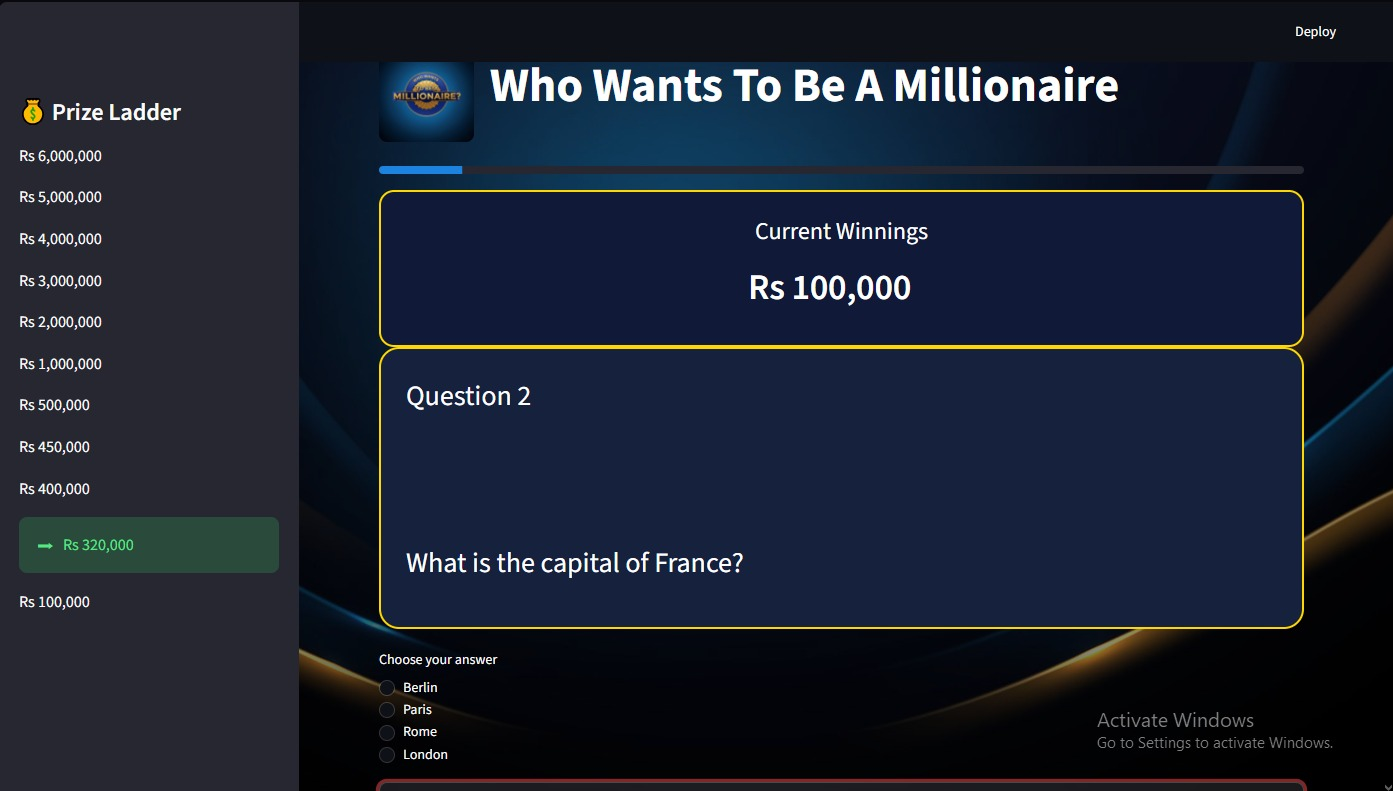
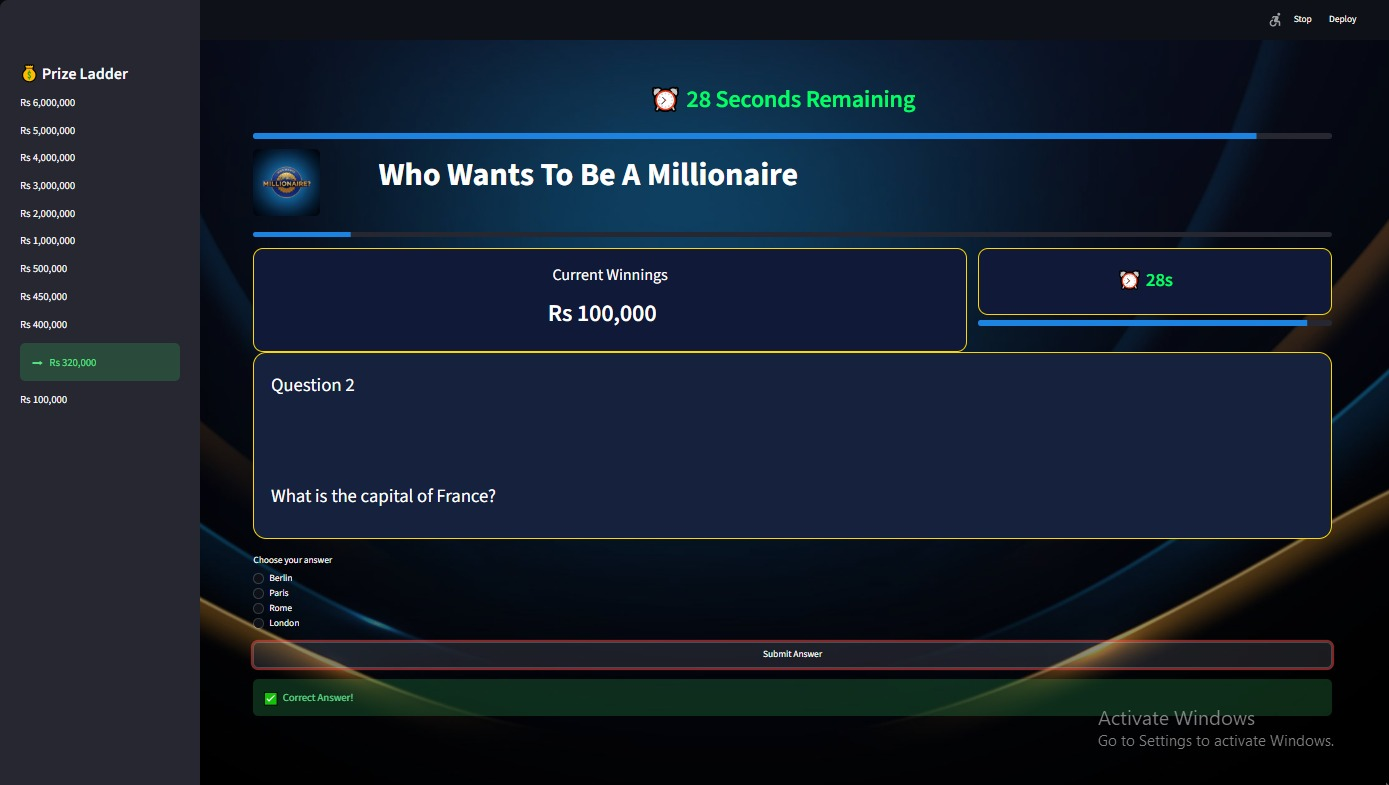
Updated readme.md file

diff --git a/readme.md b/readme.md
@@ -1,61 +1,73 @@
 # 🎮 Who Wants To Be A Millionaire
 
 <p align="center">
-  <img src="assets/logo.png" alt="Millionaire Game Logo" width="180">
+  <img src="assets/logo.png" alt="Who Wants To Be A Millionaire Logo" width="180">
 </p>
 
 <p align="center">
-  <b>A modern Who Wants To Be A Millionaire quiz game built with Python and Streamlit.</b>
+  <strong>A modern recreation of the classic <em>Who Wants To Be A Millionaire</em> game built with Python and Streamlit.</strong>
 </p>
 
 <p align="center">
 
-![Python](https://img.shields.io/badge/Python-3.10+-3776AB?style=for-the-badge&logo=python&logoColor=white)
-![Streamlit](https://img.shields.io/badge/Streamlit-Framework-FF4B4B?style=for-the-badge&logo=streamlit&logoColor=white)
-![License](https://img.shields.io/badge/License-MIT-green?style=for-the-badge)
+![Python](https://img.shields.io/badge/Python-3.10+-3776AB?style=for-the-badge\&logo=python\&logoColor=white)
+![Streamlit](https://img.shields.io/badge/Streamlit-FF4B4B?style=for-the-badge\&logo=streamlit\&logoColor=white)
 ![Status](https://img.shields.io/badge/Status-Completed-success?style=for-the-badge)
+![License](https://img.shields.io/badge/License-MIT-green?style=for-the-badge)
 
 </p>
 
 ---
 
-# 📸 Preview
+## 🌐 Live Demo
+
+🚀 **Play the game online**
+
+**https://YOUR_STREAMLIT_URL.streamlit.app**
+
+---
+
+## 📸 Preview
 
 <p align="center">
-<img src="assets/preview.png" width="900">
+  <img src="assets/preview.png" alt="Game Preview" width="900">
 </p>
 
 ---
 
-# ✨ Features
+## ✨ Features
 
-- 🎯 Classic **Who Wants To Be A Millionaire** gameplay
-- 💰 Interactive prize ladder
-- 📈 Live winnings tracker
-- 📊 Progress bar for game completion
-- ❓ Multiple choice questions
-- ✅ Instant answer validation
-- ❌ Game Over screen for incorrect answers
-- 🏆 Winner celebration with balloons
-- 🔄 Play Again functionality
-- 🖼️ Custom logo
-- 🌌 Full-screen background image
-- 🎨 Modern UI using custom HTML & CSS
-- ⚡ Built entirely with Streamlit
-
----
-
-# 🛠️ Built With
-
-- Python
-- Streamlit
-- Pillow (PIL)
+* 🎯 Classic *Who Wants To Be A Millionaire* gameplay
+* 💰 Interactive prize ladder
+* 📈 Live winnings tracker
+* 📊 Question progress indicator
+* ⏱️ 30-second countdown timer for every question
+* 🟢🟠🔴 Dynamic timer color changes (Green → Orange → Red)
+* 📉 Shrinking timer progress bar
+* ⏰ Automatic **Time's Up** detection
+* ✅ Instant answer validation
+* ❌ Game Over screen
+* 🏆 Winner celebration with balloons
+* 🔄 Play Again functionality
+* 🖼️ Custom logo
+* 🌌 Full-screen background image
+* 🎨 Modern UI using HTML & CSS
+* ⚡ Built entirely with Streamlit
 
 ---
 
-# 📂 Project Structure
+## 🛠️ Technologies Used
 
-```
+* Python
+* Streamlit
+* Pillow (PIL)
+* HTML & CSS (within Streamlit)
+
+---
+
+## 📂 Project Structure
+
+```text
 Millionaire-Game/
 │
 ├── assets/
@@ -72,33 +84,27 @@ Millionaire-Game/
 
 ---
 
-# 🚀 Installation
+## 🚀 Installation
 
-## 1️⃣ Clone the Repository
+### Clone the repository
 
 ```bash
-git clone https://github.com/YOUR_USERNAME/Millionaire-Game.git
+git clone https://github.com/A6dur/Millionaire-Game.git
 ```
 
----
-
-## 2️⃣ Move into the Project Folder
+### Navigate to the project folder
 
 ```bash
 cd Millionaire-Game
 ```
 
----
-
-## 3️⃣ Install Dependencies
+### Install dependencies
 
 ```bash
 pip install -r requirements.txt
 ```
 
----
-
-## 4️⃣ Run the Application
+### Run the application
 
 ```bash
 streamlit run app.py
@@ -106,26 +112,27 @@ streamlit run app.py
 
 ---
 
-# 🎮 How to Play
+## 🎮 How to Play
 
 1. Launch the application.
 2. Read the question carefully.
-3. Select one of the four options.
+3. Select the correct answer.
 4. Click **Submit Answer**.
-5. Every correct answer increases your prize money.
-6. A wrong answer ends the game.
-7. Reach the final question to become the Millionaire!
+5. Answer before the timer reaches zero.
+6. Each correct answer increases your winnings.
+7. A wrong answer—or running out of time—ends the game.
+8. Reach the final question to become the Millionaire!
 
 ---
 
-# 📦 Requirements
+## 📦 Requirements
 
-```
+```text
 streamlit
 Pillow
 ```
 
-or simply
+Install them using:
 
 ```bash
 pip install -r requirements.txt
@@ -133,58 +140,43 @@ pip install -r requirements.txt
 
 ---
 
-# 💡 Future Improvements
+## 🚀 Future Improvements
 
-- ⏳ Countdown timer
-- 💡 Lifelines (50:50, Ask the Audience, Phone a Friend)
-- 🔊 Sound effects
-- 🎵 Background music
-- 🌍 Online leaderboard
-- 💾 Save high scores
-- 🎬 Animations between questions
-- 🎨 Dark & Light themes
+* 💡 50:50 Lifeline
+* 👥 Ask the Audience
+* ☎️ Phone a Friend
+* 🔊 Sound effects
+* 🎵 Background music
+* 🏅 High score leaderboard
+* 💾 Save game progress
+* 🎬 Enhanced animations
+* 📱 Improved mobile responsiveness
 
 ---
 
-# 🤝 Contributing
+## 🤝 Contributing
 
 Contributions are welcome!
 
-1. Fork this repository
-2. Create a new branch
-
-```bash
-git checkout -b feature-name
-```
-
-3. Commit your changes
-
-```bash
-git commit -m "Added new feature"
-```
-
-4. Push your branch
-
-```bash
-git push origin feature-name
-```
-
-5. Open a Pull Request
+1. Fork the repository.
+2. Create a feature branch.
+3. Commit your changes.
+4. Push your branch.
+5. Open a Pull Request.
 
 ---
 
-# ⭐ Support
+## ⭐ Support
 
-If you enjoyed this project, don't forget to give it a ⭐ on GitHub!
+If you enjoyed this project, please consider giving it a **⭐ Star** on GitHub.
 
 ---
 
-# 👨💻 Author
+## 👨💻 Author
 
 **Abdur Rafay**
 
-GitHub:
-https://github.com/A6dur
+GitHub: https://github.com/A6dur
 
 ---
 